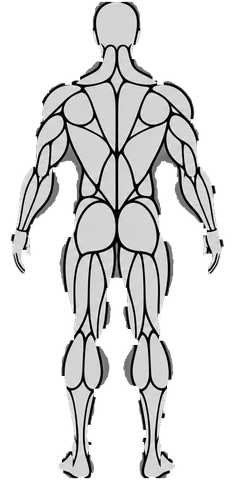
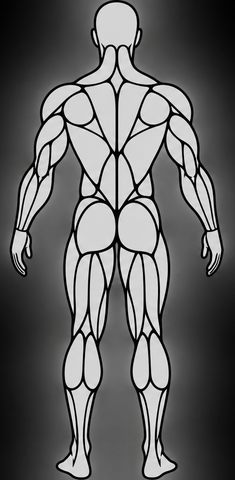
Quitar el recorte del muneco y arreglar el desborde del formulario
Reportado desde el telefono: en la figura de frente salian manchas grises por
abajo. Eran jirones del fondo que el recorte no supo separar: la sombra entre
las piernas es tan oscura como el fondo, y no hay umbral que las distinga.

Se deja el dibujo con su fondo oscuro tal cual, en una caja oscura con la que
se funde, y se tira la mascara. Sin recorte no hay recorte que salga mal. Los
recortes se regeneran con el mismo margen de antes (24 px) para que las
coordenadas medidas de los musculos sigan valiendo.

Aparte, en esa misma captura el formulario se salia por la derecha y dejaba
"Tipo" cortado. Una celda de rejilla no se encoge por debajo de su contenido a
menos que se le diga, y el selector de fecha del telefono es ancho de por si:
`.row > * { min-width: 0 }`.

Claude-Session: https://claude.ai/code/session_01Q1zqFP9amQLh4FDXBDf3fB

diff --git a/components/MapaMusculos.tsx b/components/MapaMusculos.tsx
@@ -4,8 +4,12 @@ import { MUSCULOS, NOMBRE, ANCHO, EJE, MANCHAS, lados, type Cara } from '@/lib/m
 /**
  * El selector de músculos: los dos cuerpos más la lista de nombres.
  *
- * El cuerpo es **el dibujo del propio proyecto** (`public/musculos/`). Dibujarlo
- * a mano con formas se intentó y quedaba como un robot con pegatinas.
+ * El cuerpo es **el dibujo del propio proyecto** (`public/musculos/`), con su
+ * fondo oscuro tal cual. Dibujarlo a mano con formas se intentó y quedaba como
+ * un robot con pegatinas; y recortarle el fondo para dejarlo transparente
+ * dejaba jirones grises entre las piernas, porque la sombra de ahí es tan
+ * oscura como el fondo y no hay umbral que las separe bien. Con el fondo
+ * puesto no hay recorte que pueda salir mal.
  *
  * Dos cosas que hacen que se pueda usar de verdad:
  *  - Las zonas que se pueden tocar se ven siempre, en punteado. Sin eso hay
@@ -34,7 +38,7 @@ export default function MapaMusculos({
 
     return (
       <svg key={c} viewBox={`0 0 ${w} 400`} height={alto} width={(alto * w) / 400}
-        role="img" aria-label={`Cuerpo de ${c}`} style={{ touchAction: 'manipulation', overflow: 'visible' }}>
+        role="img" aria-label={`Cuerpo de ${c}`} style={{ touchAction: 'manipulation', display: 'block' }}>
         <defs>
           <filter id={`${id}-${c}-halo`} x="-40%" y="-40%" width="180%" height="180%">
             <feGaussianBlur stdDeviation="5" />
@@ -52,10 +56,10 @@ export default function MapaMusculos({
                   fill={ROJO_MUSCULO} opacity={0.45} filter={`url(#${id}-${c}-halo)`} />}
                 <ellipse cx={cx} cy={f.cy} rx={f.rx} ry={f.ry}
                   fill={on ? ROJO_MUSCULO : 'transparent'} fillOpacity={on ? 0.5 : 1}
-                  stroke={on ? ROJO_MUSCULO : '#9AA29A'}
+                  stroke={on ? ROJO_MUSCULO : '#8E978E'}
                   strokeWidth={on ? 1.4 : 1}
                   strokeDasharray={on ? undefined : '3 3'}
-                  strokeOpacity={on ? 0.9 : (vivo ? 0.55 : 0)}
+                  strokeOpacity={on ? 0.95 : (vivo ? 0.5 : 0)}
                   style={vivo ? { cursor: 'pointer' } : undefined}
                   onClick={alTocar ? () => alTocar(m.id) : undefined}>
                   <title>{m.nombre}</title>
@@ -69,9 +73,11 @@ export default function MapaMusculos({
 
   return (
     <div>
+      {/* Caja oscura: el dibujo trae su propio fondo negro y así se funde con
+          ella en vez de recortarse contra una tarjeta blanca. */}
       <div style={{
-        display: 'flex', gap: 4, justifyContent: 'center', alignItems: 'flex-start',
-        background: 'var(--surface)', border: '1px solid var(--line)', borderRadius: 14, padding: '10px 4px',
+        display: 'flex', gap: 8, justifyContent: 'center', alignItems: 'flex-start',
+        background: '#0B0D0B', borderRadius: 16, padding: '8px 4px', overflow: 'hidden',
       }}>
         {/* Espalda a la izquierda y frente a la derecha, como en el dibujo original. */}
         {cara('espalda')}{cara('frente')}

diff --git a/app/globals.css b/app/globals.css
@@ -81,7 +81,13 @@ h2 { font-size: 17px; font-weight: 700; margin: 26px 0 10px; letter-spacing: -.0
 .field label { font-size: 13px; color: var(--ink-2); }
 .field input, .field select, .field textarea { padding: 11px 12px; border: 1.5px solid var(--line); border-radius: 10px; background: #fff; width: 100%; }
 .field input:focus, .field select:focus, .field textarea:focus { outline: 2px solid var(--verde-txt); outline-offset: 1px; border-color: transparent; }
+/* Dos columnas. El `min-width: 0` es imprescindible: por defecto una celda de
+   rejilla no se encoge por debajo de su contenido, y el selector de fecha del
+   teléfono es ancho de por sí, así que la fila se salía por la derecha y
+   dejaba "Tipo" cortado. */
 .row { display: grid; grid-template-columns: 1fr 1fr; gap: 10px; }
+.row > * { min-width: 0; }
+.field input, .field select { max-width: 100%; }
 
 /* Plan del atleta: una línea de tiempo vertical con el día como marcador */
 .plan { display: grid; gap: 0; }
